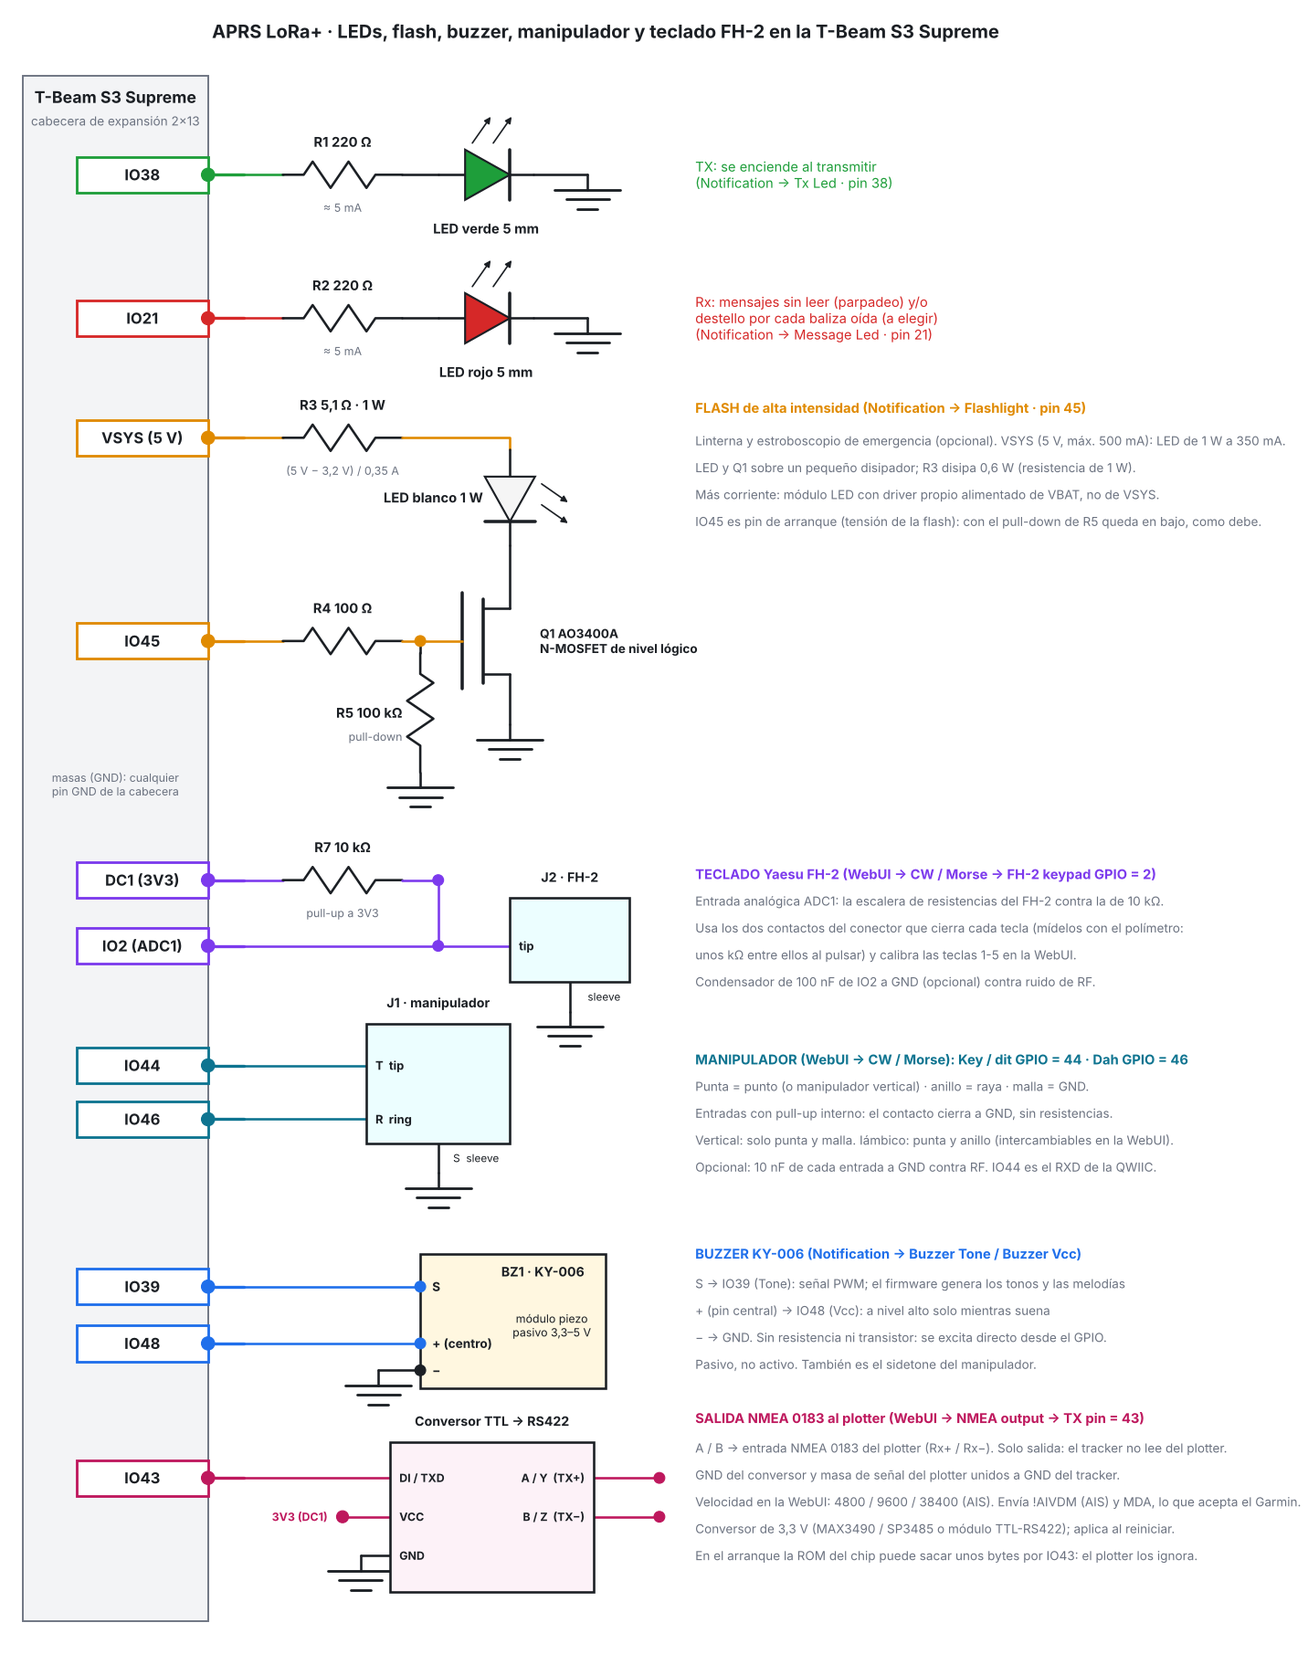
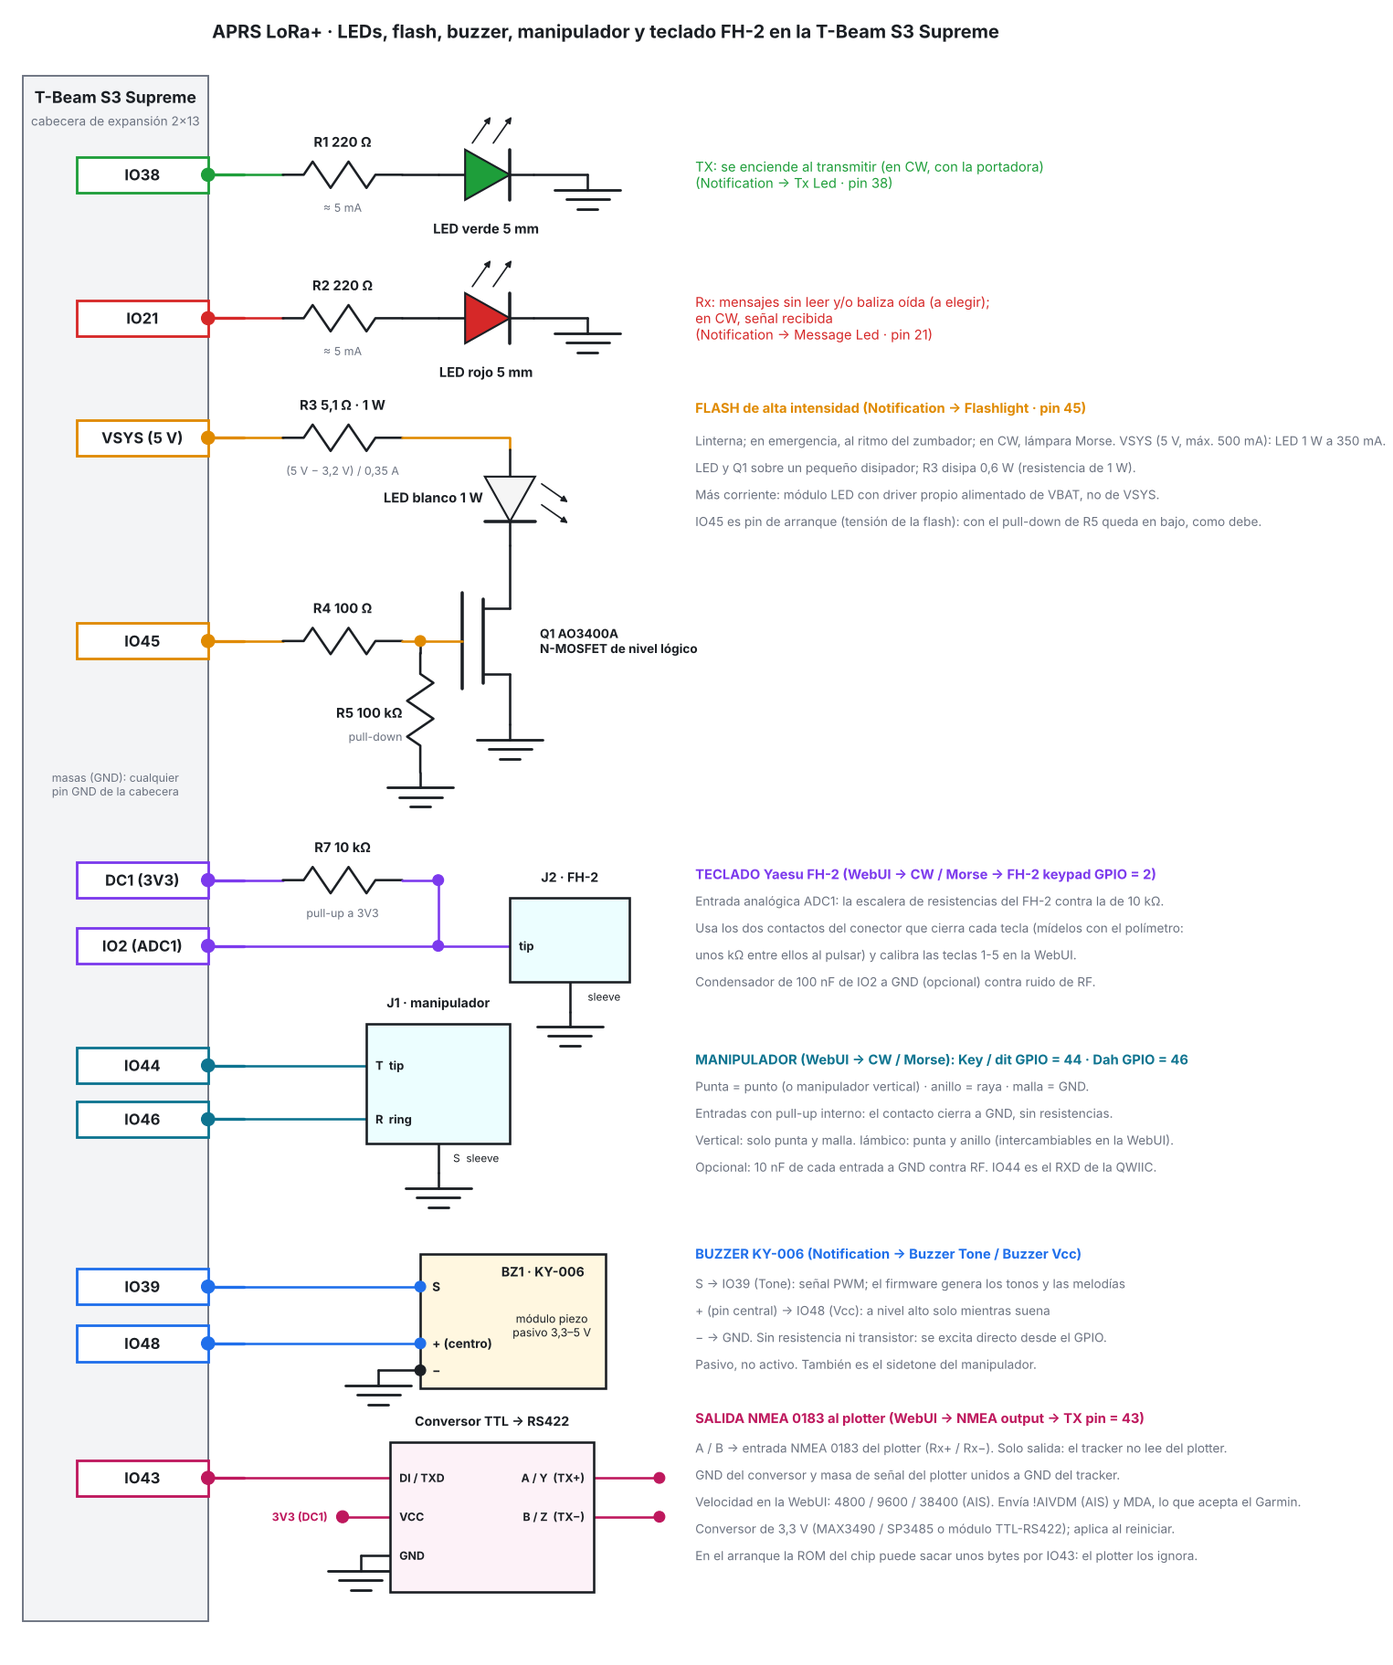
Flash blanco sincronizado con la sirena del zumbador; LEDs en modo CW (verde portadora, blanco lampara Morse, rojo senal recibida); esquema y docs
Claude-Session: https://claude.ai/code/session_01GDhYBy3QviPrNDemu3ZHMt

diff --git a/data_embed/index.html b/data_embed/index.html
@@ -1623,7 +1623,20 @@ body{background:var(--msh-bg);color:var(--msh-text);font-family:"Inter",system-u
                                             <label
                                                 for="notification.flashEmergency"
                                                 class="form-label"
-                                                >White flash: strobe on emergency alarm or own SOS (200 ms per second, 5 min at most; needs the flash active)</label
+                                                >White flash: on an emergency alarm or own SOS it flashes in step with the buzzer siren (without a buzzer: 200 ms per second, 5 min at most); needs the flash active</label
+                                            >
+                                        </div>
+                                        <div class="form-check form-switch">
+                                            <input
+                                                type="checkbox"
+                                                name="notification.ledCw"
+                                                id="notification.ledCw"
+                                                class="form-check-input"
+                                            />
+                                            <label
+                                                for="notification.ledCw"
+                                                class="form-label"
+                                                >LEDs in CW mode: green = carrier on (key down), white = Morse lamp (follows the key), red = CW signal received</label
                                             >
                                         </div>
                                     </div>

diff --git a/data_embed/script.js b/data_embed/script.js
@@ -892,6 +892,7 @@ function loadSettings(settings) {
     document.getElementById("notification.ledMessagePin").value         = settings.notification.ledMessagePin;
     document.getElementById("notification.ledRxBeacon").checked         = !!settings.notification.ledRxBeacon;
     document.getElementById("notification.flashEmergency").checked      = !!settings.notification.flashEmergency;
+    document.getElementById("notification.ledCw").checked               = !!settings.notification.ledCw;
     NotificationLedMessageCheckbox.checked  = settings.notification.ledMessage;
     ledMessagePinUpdate();
     

diff --git a/src/notification_utils.cpp b/src/notification_utils.cpp
@@ -31,8 +31,44 @@ uint8_t shutDownSoundDuration[] = {60, 60, 200};
 
 extern Configuration    Config;
 extern bool             digipeaterActive;
+extern bool             flashlight;
 
 namespace NOTIFICATION_Utils {
+
+    // ---- Luces ligadas al zumbador y al modo CW ------------------------------------------------------------------------
+    static bool lampLit     = false;        // el flash lo lleva una luz (sirena / lampara Morse)
+    static bool rxLedOwned  = false;        // el LED rojo lo lleva la recepcion CW
+
+    // Flash blanco: enciende / apaga; al apagarse recupera el estado de la linterna manual
+    static void lampSet(bool on) {
+        if (!Config.notification.ledFlashlight || Config.notification.ledFlashlightPin < 0) return;
+        lampLit = on;
+        digitalWrite(Config.notification.ledFlashlightPin, (on || flashlight) ? HIGH : LOW);
+    }
+
+    // Sirena de emergencia: el flash blanco sigue cada nota del zumbador
+    static void sirenLight(bool on) {
+        if (Config.notification.flashEmergency) lampSet(on);
+    }
+
+    bool lampBusy()  { return lampLit; }
+    bool rxLedBusy() { return rxLedOwned; }
+
+    void lightTx(bool on) {
+        if (!Config.notification.ledCw || !Config.notification.ledTx || Config.notification.ledTxPin < 0) return;
+        digitalWrite(Config.notification.ledTxPin, on ? HIGH : LOW);
+    }
+
+    void lightMorse(bool on) {
+        if (!Config.notification.ledCw) return;
+        lampSet(on);
+    }
+
+    void lightRx(bool on) {
+        if (!Config.notification.ledCw || !(Config.notification.ledMessage || Config.notification.ledRxBeacon) || Config.notification.ledMessagePin < 0) return;
+        rxLedOwned = on;
+        digitalWrite(Config.notification.ledMessagePin, on ? HIGH : LOW);
+    }
 
     void sidetone(bool on) {
         static bool active = false;
@@ -107,21 +143,30 @@ namespace NOTIFICATION_Utils {
         update();
     }
 
-    void playTone(int frequency, uint8_t duration) {
+    // light = true: el flash blanco se enciende y se apaga con la nota (sirena de emergencia)
+    static void playToneLit(int frequency, uint8_t duration, bool light) {
         #if defined(ESP_ARDUINO_VERSION_MAJOR) && ESP_ARDUINO_VERSION_MAJOR >= 3
         ledcAttach(Config.notification.buzzerPinTone, frequency, resolution);   // Arduino core 3.x API
         ledcWrite(Config.notification.buzzerPinTone, 128);
+        if (light) sirenLight(true);
         delay(duration);
         ledcWrite(Config.notification.buzzerPinTone, 0);
         ledcDetach(Config.notification.buzzerPinTone);
+        if (light) sirenLight(false);
         #else
         ledcSetup(channel, frequency, resolution);
         ledcAttachPin(Config.notification.buzzerPinTone, 0);
         ledcWrite(channel, 128);
+        if (light) sirenLight(true);
         delay(duration);
         ledcWrite(channel, 0);
+        if (light) sirenLight(false);
         #endif
         delay(pauseDuration);
+    }
+
+    void playTone(int frequency, uint8_t duration) {
+        playToneLit(frequency, duration, false);
     }
 
     void beaconTxBeep() {
@@ -152,16 +197,16 @@ namespace NOTIFICATION_Utils {
 
     void countdownBeep() {
         digitalWrite(Config.notification.buzzerPinVcc, HIGH);
-        playTone(1500,80);
+        playToneLit(1500,80,true);
         digitalWrite(Config.notification.buzzerPinVcc, LOW);
     }
 
     void alarmBeep() {
         digitalWrite(Config.notification.buzzerPinVcc, HIGH);
-        playTone(1800,120);
-        playTone(1200,120);
-        playTone(1800,120);
-        playTone(1200,120);
+        playToneLit(1800,120,true);
+        playToneLit(1200,120,true);
+        playToneLit(1800,120,true);
+        playToneLit(1200,120,true);
         digitalWrite(Config.notification.buzzerPinVcc, LOW);
     }
 

diff --git a/src/pages_utils.cpp b/src/pages_utils.cpp
@@ -3367,6 +3367,7 @@ namespace PAGES_Utils {
                 keyed = out;
                 if (rf) LoRa_Utils::cwKey(keyed);
                 if (tone) NOTIFICATION_Utils::sidetone(keyed);
+                NOTIFICATION_Utils::lightMorse(keyed);
                 if (keyed) decoder.keyDown(now); else decoder.keyUp(now);
                 snprintf(cwPending, sizeof(cwPending), "%s", decoder.pending());
             }
@@ -3383,6 +3384,7 @@ namespace PAGES_Utils {
         }
         if (keyed && rf) LoRa_Utils::cwKey(false);
         if (tone) NOTIFICATION_Utils::sidetone(false);
+        NOTIFICATION_Utils::lightMorse(false);
         if (rf) LoRa_Utils::cwEnd();
         cwPending[0] = '\0';
         displayTime = millis();
@@ -3418,6 +3420,7 @@ namespace PAGES_Utils {
                 keyed = k;
                 if (keyed) decoder.keyDown(now); else decoder.keyUp(now);
                 if (tone) NOTIFICATION_Utils::sidetone(keyed);
+                NOTIFICATION_Utils::lightRx(keyed);                    // LED rojo = senal CW recibida
                 snprintf(cwPending, sizeof(cwPending), "%s", decoder.pending());
             }
             char c = decoder.tick(now);
@@ -3441,6 +3444,7 @@ namespace PAGES_Utils {
             delay(1);
         }
         if (tone) NOTIFICATION_Utils::sidetone(false);
+        NOTIFICATION_Utils::lightRx(false);
         LoRa_Utils::cwRxEnd();
         cwRxActive = false;
         cwPending[0] = '\0';
@@ -3465,6 +3469,7 @@ namespace PAGES_Utils {
 
     void cwTrainKeyHook(void*, bool on) {
         NOTIFICATION_Utils::sidetone(on);
+        NOTIFICATION_Utils::lightMorse(on);
     }
 
     // Escuchar: grupos de 5 caracteres en el zumbador (velocidad de caracter = WPM, espacios Farnsworth); despues se muestran
@@ -3499,6 +3504,7 @@ namespace PAGES_Utils {
             if (!cwWaitHook(&run, 3000)) { aborted = true; break; }
         }
         NOTIFICATION_Utils::sidetone(false);
+        NOTIFICATION_Utils::lightMorse(false);
         displayTime = millis();
         char message[24];
         snprintf(message, sizeof(message), "Trainer: %u groups", (unsigned)groups);
@@ -3537,6 +3543,7 @@ namespace PAGES_Utils {
                 if (out != keyed) {
                     keyed = out;
                     if (tone) NOTIFICATION_Utils::sidetone(keyed);
+                    NOTIFICATION_Utils::lightMorse(keyed);
                     if (keyed) decoder.keyDown(now); else decoder.keyUp(now);
                     startMs = now;
                 }
@@ -3547,6 +3554,7 @@ namespace PAGES_Utils {
                 delay(1);
             }
             if (tone) NOTIFICATION_Utils::sidetone(false);
+            NOTIFICATION_Utils::lightMorse(false);
             if (quit) break;
             total++;
             bool right_ = (got == target);

diff --git a/src/configuration.cpp b/src/configuration.cpp
@@ -263,6 +263,7 @@ bool Configuration::writeFile() {
         data["notification"]["ledMessagePin"]       = notification.ledMessagePin;
         data["notification"]["ledRxBeacon"]         = notification.ledRxBeacon;
         data["notification"]["flashEmergency"]      = notification.flashEmergency;
+        data["notification"]["ledCw"]               = notification.ledCw;
         data["notification"]["buzzerActive"]        = notification.buzzerActive;
         data["notification"]["buzzerPinTone"]       = notification.buzzerPinTone;
         data["notification"]["buzzerPinVcc"]        = notification.buzzerPinVcc;
@@ -655,6 +656,7 @@ bool Configuration::readFile() {
         notification.ledMessage         = data["notification"]["ledMessage"] | false;
         notification.ledRxBeacon        = data["notification"]["ledRxBeacon"] | false;
         notification.flashEmergency     = data["notification"]["flashEmergency"] | false;
+        notification.ledCw              = data["notification"]["ledCw"] | false;
         notification.ledMessagePin      = data["notification"]["ledMessagePin"] | defaultPin(NOTIF_DEF_LED_MESSAGE);
         notification.buzzerActive       = data["notification"]["buzzerActive"] | false;
         notification.buzzerPinTone      = data["notification"]["buzzerPinTone"] | defaultPin(NOTIF_DEF_BUZZER_TONE);
@@ -1037,6 +1039,7 @@ void Configuration::setDefaultValues() {
     notification.ledMessage         = false;
     notification.ledRxBeacon        = false;
     notification.flashEmergency     = false;
+    notification.ledCw              = false;
     notification.ledMessagePin      = defaultPin(NOTIF_DEF_LED_MESSAGE);
     notification.buzzerActive       = false;
     notification.buzzerPinTone      = defaultPin(NOTIF_DEF_BUZZER_TONE);

diff --git a/src/utils.cpp b/src/utils.cpp
@@ -24,6 +24,7 @@
 #include "lora_utils.h"
 #include "display.h"
 #include "utils.h"
+#include "notification_utils.h"
 #ifdef HAS_APRS_PAGES
     #include "pages_utils.h"
 #endif
@@ -147,9 +148,10 @@ namespace Utils {
 
     void checkFlashlight() {
         if (!Config.notification.ledFlashlight || Config.notification.ledFlashlightPin < 0) return;    // flashlight disabled or invalid pin: don't touch any pin
+        if (NOTIFICATION_Utils::lampBusy()) return;                  // el flash lo lleva la sirena o la lampara Morse (sincronizado con el zumbador / la tecla)
         bool desiredState       = flashlight ? HIGH : LOW;
         uint8_t flashlightPin   = Config.notification.ledFlashlightPin;
-        if (Config.notification.flashEmergency) {
+        if (Config.notification.flashEmergency && !Config.notification.buzzerActive) {    // sin zumbador no hay sirena a la que seguir
             // Emergencia (alarma recibida o SOS propio): rafagas de 200 ms cada segundo, como mucho 5 minutos seguidos (el LED de 1 W se calienta)
             static bool     strobing    = false;
             static uint32_t strobeStart = 0;

diff --git a/include/notification_utils.h b/include/notification_utils.h
@@ -38,6 +38,13 @@ namespace NOTIFICATION_Utils {
     void bell(Bell::Id id);         // melodia de campana APRS (sin bloqueos): se reproduce desde update()
     void update();                  // llamar en cada vuelta del loop
 
+    // Luces (LED verde / blanco / rojo) ligadas al zumbador y al modo CW; cada una solo actua si su LED esta activo en la WebUI
+    void lightTx(bool on);          // modo CW: LED verde = portadora emitida (WebUI: LEDs in CW mode)
+    void lightMorse(bool on);       // modo CW: flash blanco como lampara Morse (sigue el manipulador / entrenador)
+    void lightRx(bool on);          // modo CW: LED rojo = senal CW recibida
+    bool rxLedBusy();               // el LED rojo lo lleva ahora la recepcion CW (ledNotification no lo toca)
+    bool lampBusy();                // el flash lo lleva ahora el zumbador o la lampara Morse (checkFlashlight no lo toca)
+
 }
 
 #endif

diff --git a/src/web_utils.cpp b/src/web_utils.cpp
@@ -477,6 +477,7 @@ namespace WEB_Utils {
         Config.notification.ledMessage          = request->hasParam("notification.ledMessage", true);
         Config.notification.ledRxBeacon         = request->hasParam("notification.ledRxBeacon", true);
         Config.notification.flashEmergency      = request->hasParam("notification.flashEmergency", true);
+        Config.notification.ledCw               = request->hasParam("notification.ledCw", true);
         if (Config.notification.ledMessage || Config.notification.ledRxBeacon) Config.notification.ledMessagePin = getParamIntSafe("notification.ledMessagePin", Config.notification.ledMessagePin);
         Config.notification.buzzerActive        = request->hasParam("notification.buzzerActive", true);
         if (Config.notification.buzzerActive) {

diff --git a/include/configuration.h b/include/configuration.h
@@ -139,6 +139,7 @@ public:
     bool    ledMessage;                         // LED rojo: parpadea mientras haya mensajes sin leer (y alarma de emergencia)
     int     ledMessagePin;
     bool    ledRxBeacon;                        // LED rojo: destello corto por cada paquete recibido de otra estacion (balizas...)
+    bool    ledCw;                              // modo CW: verde = portadora (manipulacion), blanco = lampara Morse, rojo = senal CW recibida
     bool    flashEmergency;                     // flash blanco: estroboscopio con una alarma de emergencia o la baliza SOS propia (necesita el flash activo)
     bool    ledFlashlight;
     int     ledFlashlightPin;

diff --git a/src/msg_utils.cpp b/src/msg_utils.cpp
@@ -194,6 +194,7 @@ namespace MSG_Utils {
         const bool msgLed = Config.notification.ledMessage;
         const bool rxLed  = Config.notification.ledRxBeacon;
         if ((!msgLed && !rxLed) || Config.notification.ledMessagePin < 0) return;
+        if (NOTIFICATION_Utils::rxLedBusy()) return;         // modo CW: el LED rojo sigue la senal recibida
         const int pin = Config.notification.ledMessagePin;
 
         #ifdef HAS_APRS_PAGES

diff --git a/src/lora_utils.cpp b/src/lora_utils.cpp
@@ -780,6 +780,8 @@ namespace LoRa_Utils {
     }
 
     void cwKey(bool on) {
+        NOTIFICATION_Utils::lightTx(on);                    // LED verde = portadora (si esta elegido: LEDs in CW mode)
+        NOTIFICATION_Utils::lightMorse(on);                 // flash blanco = lampara Morse
         #if defined(HAS_SX1262) || defined(HAS_SX1268)
             if (on) {
                 #if defined(TTGO_T_BEAM_1W)

diff --git a/CHANGELOG.md b/CHANGELOG.md
@@ -4,7 +4,7 @@
 - **Guía de pines en todas las placas:** la WebUI identifica los pines (libre / ocupado por la placa / con cuidado / solo entrada) en cualquier firmware, no solo en la Supreme. La lista la genera el firmware a partir de los pines que declara cada placa (radio, GPS, pantalla, botones, batería, flash, USB) y se lee en `/api/pins`; el botón de pines sugeridos rellena solo pines libres (el teclado FH-2, en uno ADC1). Los pines por defecto de LEDs, flash y buzzer pasan a «sin asignar» si los ocupa la placa (antes, por ejemplo, el 13 y el 14 chocaban con la radio de las Heltec V3), y el firmware rechaza esos pines y los de solo entrada para LEDs, buzzer, PTT y NMEA en todas las placas. Sin probar en placa.
 - **T-Beam S3 Supreme, hardware externo:** esquema y reparto de pines para LED verde, LED rojo, flash de alta intensidad, buzzer KY-006 (pasivo), manipulador, teclado FH-2 y salida NMEA al conversor TTL-RS422 (`docs/HARDWARE_SUPREME_EXTRAS.md`). La WebUI identifica cada pin de la cabecera (libre, a evitar u ocupado por la placa), avisa si se repite y rellena los pines sugeridos con un botón. Los pines por defecto de LEDs, flash y buzzer en la Supreme pasan a 38 / 21 / 45 / 39 / 48 (antes chocaban con la radio, el RTC y el IMU). Nuevo en la WebUI: *NMEA output* (pin TX y velocidad de la UART, antes fijos en el firmware; aplica al reiniciar). El manipulador CW y el teclado FH-2 ignoran los pines que ocupa la placa, y la lista de pines reservados incluye USB y flash/PSRAM. Sin probar en placa.
 - **CAT / Hamlib por WiFi:** servidor TCP (puerto 4532) con el protocolo *NET rigctl* de Hamlib (`rigctl -m 2`): frecuencia, modo (APRS LoRa = `PKTFMN`, APRS FSK = `PKTFM`), RSSI y potencia; PTT opcional = enviar una baliza APRS; ventana de sintonía configurable (0 = fija). No es una radio de audio. Comparte el enlace WiFi con KISS; interruptor en la WebUI (Connectivity > CAT over WiFi) y en SYSTEM (*WiFi CAT*). Especificación pública en `docs/CAT_HAMLIB.md`; protocolo probado en PC contra Hamlib 4.6.5 (`tools/cat_net`). Sin probar en placa. Manual, apartado 33.
-- **LEDs de notificación seleccionables:** el LED rojo puede avisar de mensajes sin leer (parpadeo, y rápido con una emergencia) y/o dar un destello corto por cada baliza o paquete oído de otra estación; el LED blanco (flash) puede hacer de estroboscopio durante una alarma de emergencia recibida o tu propia baliza SOS (200 ms por segundo, 5 minutos como máximo). Interruptores en la WebUI (Notifications), todos apagados por defecto salvo los que ya tenías. Sin probar en placa.
+- **LEDs de notificación seleccionables:** el LED rojo puede avisar de mensajes sin leer (parpadeo, y rápido con una emergencia) y/o dar un destello corto por cada baliza o paquete oído de otra estación; el LED blanco (flash) se enciende en sincronía con la sirena del zumbador durante una alarma de emergencia recibida o tu propia baliza SOS (sin zumbador: ráfagas de 200 ms por segundo, 5 minutos como máximo). **Modo CW** (interruptor «LEDs in CW mode»): el verde sigue la portadora (tecla pulsada, también macros y baliza CW), el blanco hace de lámpara Morse (manipulador y entrenador) y el rojo se enciende con la señal CW recibida. Interruptores en la WebUI (Notifications), todos apagados por defecto. Sin probar en placa.
 - **CAT por USB:** el mismo protocolo del CAT por el puerto serie USB de la placa (115200 baudios), con interruptor propio en la WebUI (Connectivity > CAT; apagado por defecto, aplica al reiniciar). Con él activo el log de ese puerto solo muestra errores para no mezclarse con las respuestas, y `APRS-INFO?` del instalador web sigue funcionando. Hamlib no trae un modelo serie para este protocolo: el backend de `tools/hamlib_backend` añade el modelo «APRS LoRa+ tracker (USB)» (13 en el parche 4.7.2; DTR y RTS apagados para no reiniciar la placa). Probado en PC con `rigctl` 4.7.2 a través de un seudoterminal; sin probar en placa.
 - **SYSTEM:** el estado de WiFi ya se ve (antes siempre ponía `off`): `CON` si el KISS por WiFi está unido a tu red, `..` mientras se une, `AP` en el punto de acceso. Con Bluetooth o WiFi activos, **1P** alterna a una vista **LINK** (no es una página más) con los detalles de las conexiones: Bluetooth (tipo, protocolo, nombre, móvil conectado) y WiFi (red, **IP**, puertos KISS, clientes, señal). Nuevo submenú (LP): **Bluetooth ON/OFF**, **BT data KISS/TNC2** (guardan y reinician) y **WiFi KISS ON/OFF** (al momento). Sin probar en placa.
 - **KISS por WiFi:** probado con APRSdroid en Android por TCP en **LoRa y FSK**. El nombre de equipo (`aprs-lora-plus`) se fija antes de crear la interfaz WiFi, para que el router y mDNS lo vean en vez de «esp…» (muchas apps de Android no resuelven `.local`: usa la IP de la vista LINK).
